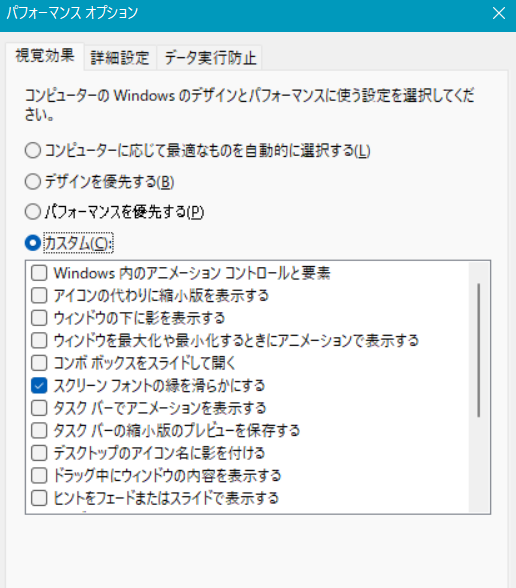
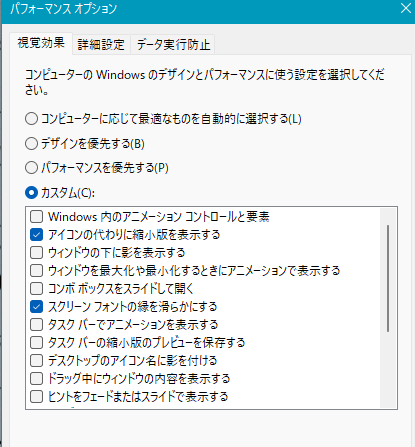
fix image

Changed region(s): [[0.0, 0.0, 0.9542, 1.0], [0.9542, 0.0, 1.0, 0.0582]]

diff --git a/README.md b/README.md
@@ -50,7 +50,7 @@ scoop bucket add extras
 
 ![img](./img/perform.png)
 
-`スクリーンフォントの縁を滑らかにする` 以外はオフでOK。
+`スクリーンフォントの縁を滑らかにする` と `アイコンの代わりに縮小版を表示する` 以外はオフでOK。
 
 ### キーボード設定変更キー（alt+shift）の無効化
 
